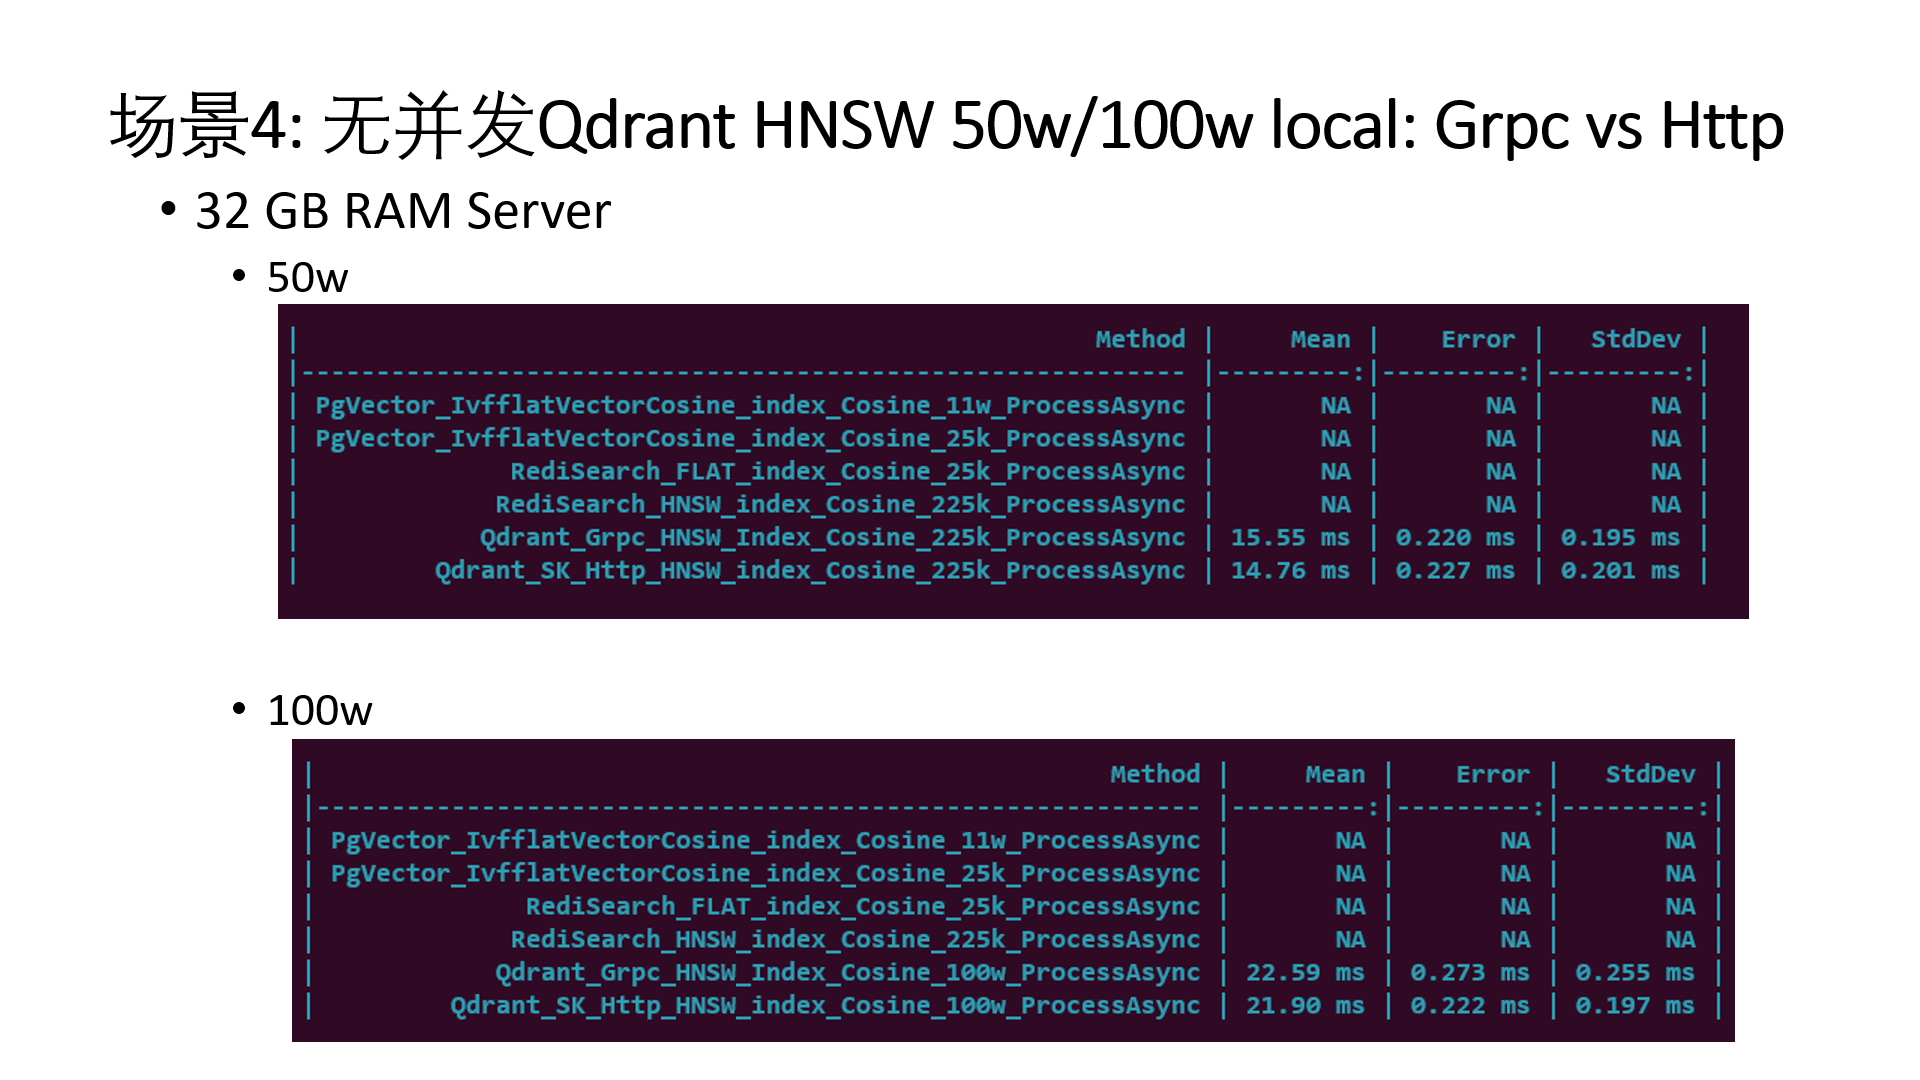
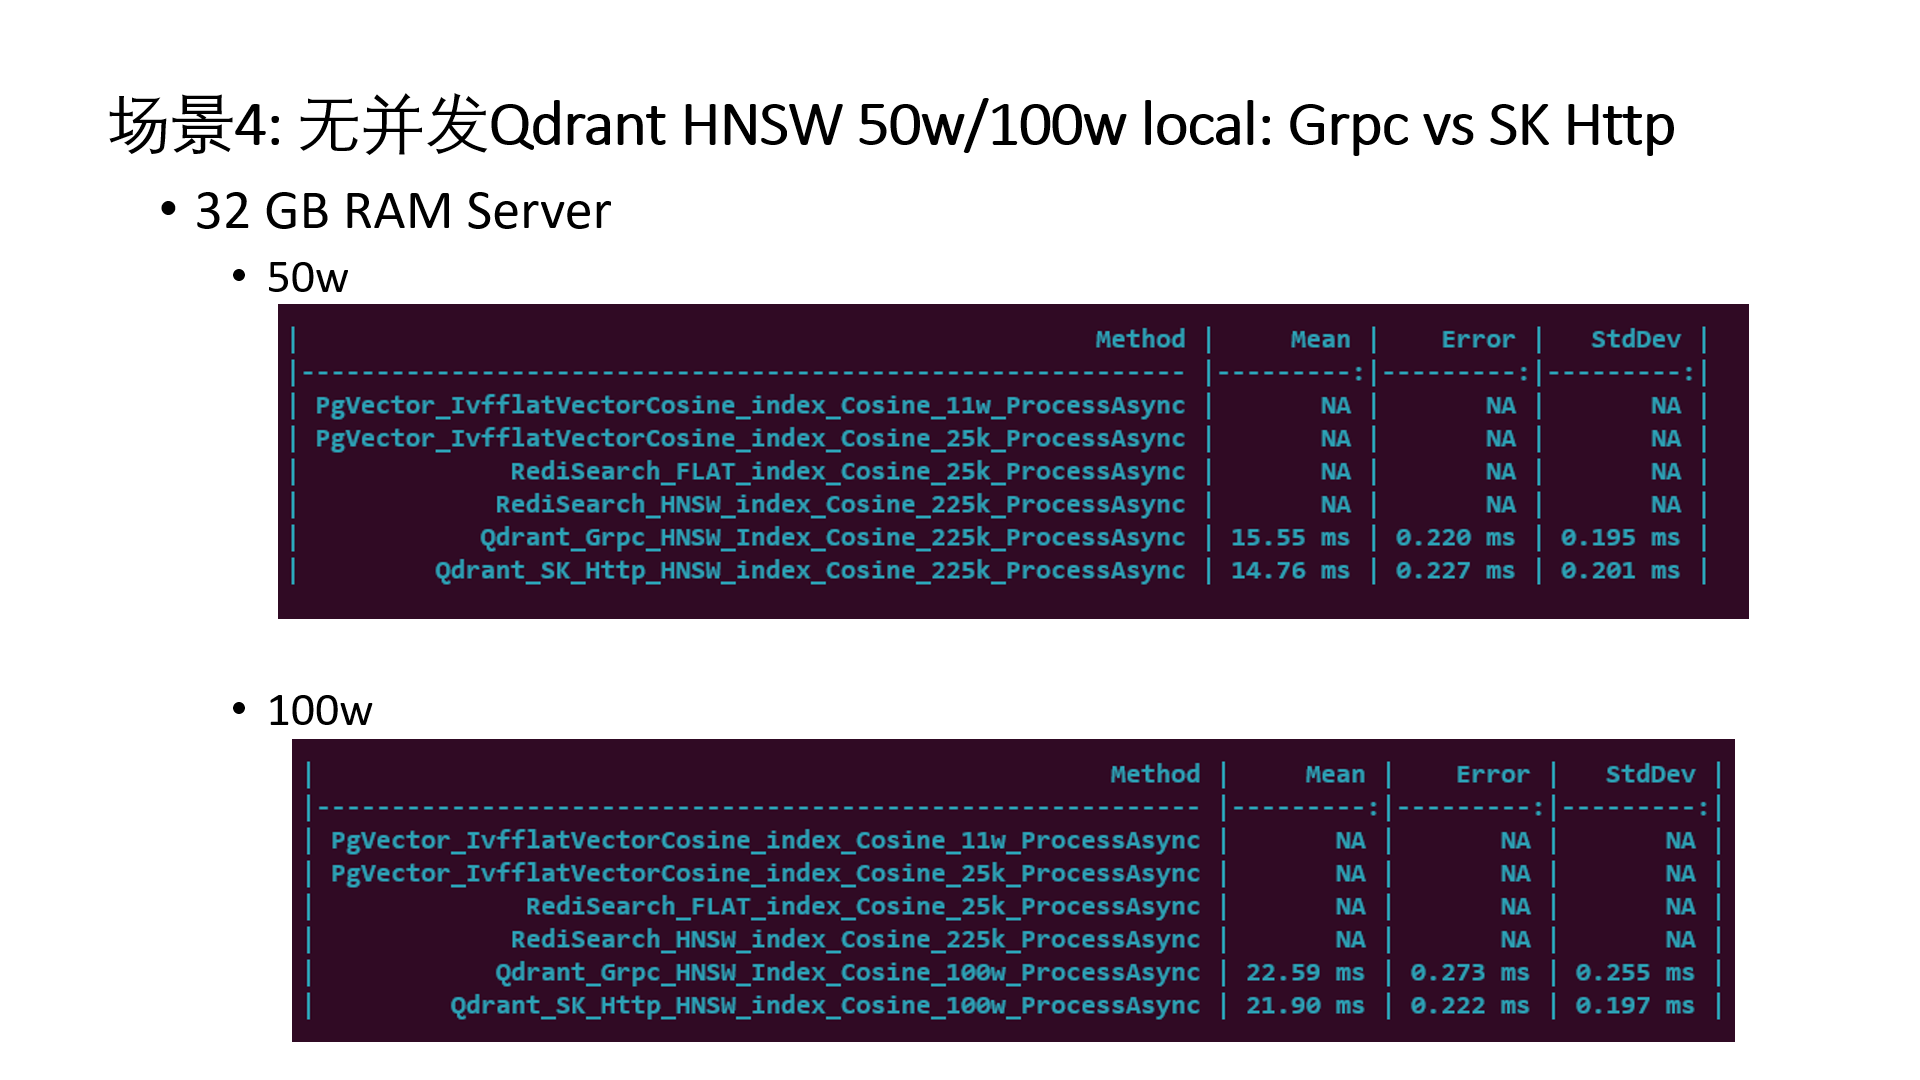
1

Changed region(s): [[0.0625, 0.0611, 0.9375, 0.1528]]

diff --git a/readme.md b/readme.md
@@ -2,6 +2,8 @@
 
 ## Run in `docker` `qdrant` `ubuntu` VM
 
+- `SK Http` means `Microsoft.SemanticKernel.Connectors.Memory.Qdrant.QdrantVectorDbClient`
+
 ![qdrant.50w.100w.grpc.http.local](VectorDataBases.Performance/Assets/qdrant.50w.100w.grpc.http.local.png)
 
 ![qdrant.advantage.local](VectorDataBases.Performance/Assets/qdrant.advantage.local.png)
